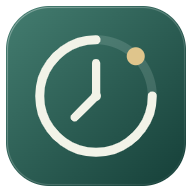
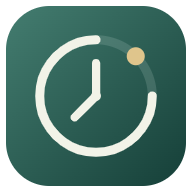
Add independent interface and bubble materials and remove bright outlines

diff --git a/public/app.js b/public/app.js
@@ -206,7 +206,7 @@ function restoreForm() {
 function localModeCard(){return `<section class="card appearance-card"><h2>数据存储模式</h2><p>${localMode()?'本地优先：数据保存在此浏览器，可选择手动同步或开启自动同步。':'服务器模式：当前修改保存在服务器。'}</p><p class="hint">本地空间与服务器分开保存。首次在线打开后可准备离线资源；清除浏览器网站数据会删除本地空间，请定期导出备份。可在下方管理手动与自动同步；默认关闭自动同步。</p><button class="quiet" data-action="local-mode">${localMode()?'本地模式说明':'进入本地模式'}</button> <button class="quiet" data-action="offline-ready">准备 / 更新离线资源</button>${localMode()?'<button class="text-btn" data-action="server-mode">返回服务器模式（不上传）</button>':''}</section>`;}
 function localModeForm(){openModal('本地空间',`<p class="hint">已有本地空间会直接打开，不会被覆盖。首次使用可创建空白空间，或复制当前已加载的服务器数据。API 密钥与账号不会复制。本地数据只属于此浏览器和当前网址。</p><button class="primary" id="local-empty">打开 / 创建本地空间</button>${state&&!localMode()?'<button class="quiet" id="local-copy">首次创建时复制当前数据</button>':''}`,()=>{const enter=async seed=>{try{await initializeLocal(seed);localStorage.setItem('shixu-data-mode','local');dataMode='local';await navigator.storage?.persist?.();closeModal();await load();toast('已进入本地模式；同步方式可在设置中管理');}catch(e){toast(e.message);}};$('#local-empty').onclick=()=>enter();if($('#local-copy'))$('#local-copy').onclick=()=>enter(state);});}
 async function prepareOffline(){if(!('serviceWorker' in navigator))throw Error('此浏览器不支持离线资源');const registration=await navigator.serviceWorker.register('/sw.js');await registration.update();await navigator.serviceWorker.ready;const channel=new MessageChannel();await new Promise((resolve,reject)=>{const timer=setTimeout(()=>reject(Error('离线资源准备超时，请联网后重试')),30000);channel.port1.onmessage=e=>{clearTimeout(timer);channel.port1.close();e.data.ok?resolve():reject(Error('资源下载失败，请联网后重试'));};(registration.active||registration.waiting).postMessage({type:'prepare-offline'},[channel.port2]);});toast('离线资源已准备，可断网后重新打开验证');}
-function appearanceCard(){const a=window.shixuAppearance.get();return `<section class="card appearance-card"><h2>外观与主题</h2><p class="hint">立即预览，自动保存在本设备。不会影响其他设备的阅读习惯。</p><form id="appearance-form" class="form-grid"><label>主主题色<input type="color" name="color" value="${a.color}"></label><label>辅主题色<input type="color" name="secondary" value="${a.secondary}"></label><div class="full color-presets"><span>撞色搭配</span><button type="button" data-theme-pair="#2b5747,#c58b5b">松绿 · 琥珀</button><button type="button" data-theme-pair="#405bc4,#e59078">靛蓝 · 杏橘</button><button type="button" data-theme-pair="#7b5397,#73a893">紫藤 · 鼠尾草</button></div><label>日期卡片背景<input type="color" name="dateBackground" value="${a.dateBackground}"></label><label>日期卡片文字<input type="color" name="dateText" value="${a.dateText}"></label><label><input type="checkbox" name="dateCustom" ${a.dateCustom?'checked':''}> 使用自定义日期颜色</label><label>显示模式<select name="mode">${[['system','跟随系统'],['light','浅色'],['dark','夜间']].map(([v,l])=>opt(v,l,a.mode)).join('')}</select></label><label>字体大小<select name="size">${[85,100,115,130].map(n=>opt(String(n),n+'%',String(a.size))).join('')}</select></label><label>字体样式<select name="font">${[['sans','现代黑体'],['serif','经典宋体'],['mono','等宽字体']].map(([v,l])=>opt(v,l,a.font)).join('')}</select></label><label><input name="motion" type="checkbox" ${a.motion?'checked':''}> 启用轻量动画</label><button type="button" class="text-btn" id="appearance-reset">恢复默认外观</button></form><p class="appearance-preview">今天的一小步，也值得认真记录。<small>课程 · 项目 · 灵感 · 复盘</small></p></section>`;}
+function appearanceCard(){const a=window.shixuAppearance.get();return `<section class="card appearance-card"><h2>外观与主题</h2><p class="hint">立即预览，自动保存在本设备。不会影响其他设备的阅读习惯。</p><form id="appearance-form" class="form-grid"><label>主主题色<input type="color" name="color" value="${a.color}"></label><label>辅主题色<input type="color" name="secondary" value="${a.secondary}"></label><div class="full color-presets"><span>撞色搭配</span><button type="button" data-theme-pair="#2b5747,#c58b5b">松绿 · 琥珀</button><button type="button" data-theme-pair="#405bc4,#e59078">靛蓝 · 杏橘</button><button type="button" data-theme-pair="#7b5397,#73a893">紫藤 · 鼠尾草</button></div><label>日期卡片背景<input type="color" name="dateBackground" value="${a.dateBackground}"></label><label>日期卡片文字<input type="color" name="dateText" value="${a.dateText}"></label><label><input type="checkbox" name="dateCustom" ${a.dateCustom?'checked':''}> 使用自定义日期颜色</label><label>界面材质<select name="material">${[['solid','纯色'],['frosted','磨砂'],['glass','玻璃'],['acrylic','亚克力'],['mica','云母'],['paper','纸感']].map(([v,l])=>opt(v,l,a.material)).join('')}</select></label><label>显示模式<select name="mode">${[['system','跟随系统'],['light','浅色'],['dark','夜间']].map(([v,l])=>opt(v,l,a.mode)).join('')}</select></label><label>字体大小<select name="size">${[85,100,115,130].map(n=>opt(String(n),n+'%',String(a.size))).join('')}</select></label><label>字体样式<select name="font">${[['sans','现代黑体'],['serif','经典宋体'],['mono','等宽字体']].map(([v,l])=>opt(v,l,a.font)).join('')}</select></label><label><input name="motion" type="checkbox" ${a.motion?'checked':''}> 启用轻量动画</label><button type="button" class="text-btn" id="appearance-reset">恢复默认外观</button></form><p class="appearance-preview">今天的一小步，也值得认真记录。<small>课程 · 项目 · 灵感 · 复盘</small></p></section>`;}
 function setupAppearance(){const form=$('#appearance-form');const update=e=>{if(['dateBackground','dateText'].includes(e?.target?.name))form.elements.dateCustom.checked=true;const f=new FormData(form);window.shixuAppearance.set({...Object.fromEntries(f),motion:f.has('motion'),dateCustom:f.has('dateCustom')});};form.querySelectorAll('[data-theme-pair]').forEach(button=>button.onclick=()=>{const [color,secondary]=button.dataset.themePair.split(',');window.shixuAppearance.set({...window.shixuAppearance.get(),color,secondary});render();});form.oninput=update;form.onchange=update;form.onsubmit=e=>e.preventDefault();$('#appearance-reset').onclick=()=>{window.shixuAppearance.reset();render();};}
 function setupSettings() {
   setupAppearance();

diff --git a/public/materials.css b/public/materials.css
@@ -1,0 +1,19 @@
+/* Web-rendered surface styles; these do not sample the Windows desktop. */
+.brand-icon{border:0!important;outline:0!important}
+.brand:focus:not(:focus-visible){outline:none}
+.topbar{border-bottom-color:color-mix(in srgb,var(--ink) 7%,transparent)!important}
+:root{--material-fill:var(--surface);--material-texture:none;--material-blur:0px}
+:root[data-material=frosted]{--material-fill:color-mix(in srgb,var(--surface) 91%,transparent);--material-blur:12px;--material-texture:linear-gradient(145deg,color-mix(in srgb,var(--accent) 4%,transparent),transparent)}
+:root[data-material=glass]{--material-fill:color-mix(in srgb,var(--surface) 60%,transparent);--material-blur:18px;--material-texture:linear-gradient(135deg,color-mix(in srgb,var(--ink) 3%,transparent),transparent 55%)}
+:root[data-material=acrylic]{--material-fill:color-mix(in srgb,var(--surface) 78%,transparent);--material-blur:28px;--material-texture:repeating-linear-gradient(125deg,transparent 0 2px,color-mix(in srgb,var(--ink) 1.5%,transparent) 2px 3px)}
+:root[data-material=mica]{--material-fill:var(--surface);--material-texture:radial-gradient(ellipse at 0 0,color-mix(in srgb,var(--accent) 15%,transparent),transparent 75%),radial-gradient(ellipse at 100% 100%,color-mix(in srgb,var(--accent-secondary) 9%,transparent),transparent 70%)}
+:root[data-material=paper]{--material-fill:color-mix(in srgb,var(--surface) 97%,var(--accent-secondary));--material-texture:repeating-linear-gradient(0deg,transparent 0 3px,color-mix(in srgb,var(--ink) 2%,transparent) 3px 4px)}
+:root[data-material]:not([data-material=solid]) body{background-image:radial-gradient(ellipse at 18% 5%,color-mix(in srgb,var(--accent) 12%,transparent),transparent 58%),radial-gradient(ellipse at 90% 85%,color-mix(in srgb,var(--accent-secondary) 9%,transparent),transparent 55%);background-attachment:fixed}
+:root[data-material]:not([data-material=solid]) :is(.card,.stat,.task-list,.idea-card,.quadrant-card,.hero,.sidebar,.topbar,dialog){background-color:var(--material-fill)!important;background-image:var(--material-texture)!important;backdrop-filter:blur(var(--material-blur)) saturate(1.15)!important;border-color:color-mix(in srgb,var(--ink) 9%,transparent)!important;box-shadow:0 8px 28px #00000008}
+:root[data-material]:not([data-material=solid]) .task-item{background:transparent!important}
+:is(#idea-bubbles,.bubble-preview)[data-material=frosted] :is(.bubble-face,.bubble-sample){backdrop-filter:blur(calc(var(--bubble-alpha)*12px));background-image:linear-gradient(135deg,var(--bubble-material-light),transparent)}
+:is(#idea-bubbles,.bubble-preview)[data-material=glass] :is(.bubble-face,.bubble-sample){backdrop-filter:blur(calc(var(--bubble-alpha)*20px)) saturate(1.25);background-image:linear-gradient(140deg,var(--bubble-material-light),transparent 48%,var(--bubble-material-light))}
+:is(#idea-bubbles,.bubble-preview)[data-material=acrylic] :is(.bubble-face,.bubble-sample){backdrop-filter:blur(calc(var(--bubble-alpha)*32px)) saturate(1.4);background-image:repeating-linear-gradient(125deg,transparent 0 2px,var(--bubble-material-light) 2px 3px)}
+:is(#idea-bubbles,.bubble-preview)[data-material=mica] :is(.bubble-face,.bubble-sample){background-image:radial-gradient(ellipse at 5% 0,var(--bubble-material-light),transparent 70%),linear-gradient(125deg,transparent,var(--bubble-material-tint))}
+:is(#idea-bubbles,.bubble-preview)[data-material=paper] :is(.bubble-face,.bubble-sample){background-image:repeating-linear-gradient(0deg,transparent 0 3px,var(--bubble-material-light) 3px 4px)}
+@supports not (backdrop-filter:blur(1px)){:root[data-material]:not([data-material=solid]) :is(.card,.stat,.task-list,.idea-card,.quadrant-card,.hero,.sidebar,.topbar,dialog){background-color:var(--surface)!important}}

diff --git a/public/appearance.js b/public/appearance.js
@@ -1,12 +1,12 @@
 (()=>{
- const defaults={color:'#2b5747',secondary:'#c58b5b',mode:'system',size:100,font:'sans',motion:true,dateCustom:false,dateBackground:'#ffffff',dateText:'#24382f'};
+ const defaults={color:'#2b5747',secondary:'#c58b5b',mode:'system',size:100,font:'sans',motion:true,material:'solid',dateCustom:false,dateBackground:'#ffffff',dateText:'#24382f'};
  const fonts={sans:'"Segoe UI","Microsoft YaHei",sans-serif',serif:'"Noto Serif SC","Songti SC",SimSun,serif',mono:'Consolas,"Microsoft YaHei",monospace'};
  let value;try{value=JSON.parse(localStorage.getItem('shixu-appearance')||'{}');}catch{value={};}
  const hex=v=>/^#[0-9a-f]{6}$/i.test(v);
- const clean=v=>({color:hex(v?.color)?v.color:defaults.color,secondary:hex(v?.secondary)?v.secondary:defaults.secondary,mode:['light','dark','system'].includes(v?.mode)?v.mode:'system',size:[85,100,115,130].includes(Number(v?.size))?Number(v.size):100,font:fonts[v?.font]?v.font:'sans',motion:v?.motion!==false,dateCustom:v?.dateCustom===true,dateBackground:hex(v?.dateBackground)?v.dateBackground:defaults.dateBackground,dateText:hex(v?.dateText)?v.dateText:defaults.dateText});
+ const clean=v=>({color:hex(v?.color)?v.color:defaults.color,secondary:hex(v?.secondary)?v.secondary:defaults.secondary,mode:['light','dark','system'].includes(v?.mode)?v.mode:'system',size:[85,100,115,130].includes(Number(v?.size))?Number(v.size):100,font:fonts[v?.font]?v.font:'sans',motion:v?.motion!==false,material:['solid','frosted','glass','acrylic','mica','paper'].includes(v?.material)?v.material:'solid',dateCustom:v?.dateCustom===true,dateBackground:hex(v?.dateBackground)?v.dateBackground:defaults.dateBackground,dateText:hex(v?.dateText)?v.dateText:defaults.dateText});
  let settings=clean(value);const media=matchMedia('(prefers-color-scheme: dark)');
  function apply(){const root=document.documentElement;const dark=settings.mode==='dark'||settings.mode==='system'&&media.matches;root.dataset.theme=dark?'dark':'light';root.dataset.motion=settings.motion?'on':'off';root.style.setProperty('--accent',settings.color);root.style.setProperty('--user-font',fonts[settings.font]);root.style.fontSize=16*settings.size/100+'px';root.style.colorScheme=dark?'dark':'light';const rgb=settings.color.slice(1).match(/../g).map(x=>parseInt(x,16)/255).map(x=>x<=.04045?x/12.92:((x+.055)/1.055)**2.4);root.style.setProperty('--accent-ink',rgb[0]*.2126+rgb[1]*.7152+rgb[2]*.0722>.179?'#101814':'#ffffff');}
- const originalApply=apply;apply=()=>{originalApply();document.documentElement.style.setProperty('--accent-secondary',settings.secondary);for(const [key,variable] of [['dateBackground','--date-background'],['dateText','--date-text']]){if(settings.dateCustom)document.documentElement.style.setProperty(variable,settings[key]);else document.documentElement.style.removeProperty(variable);}};
+ const originalApply=apply;apply=()=>{originalApply();document.documentElement.dataset.material=settings.material;document.documentElement.style.setProperty('--accent-secondary',settings.secondary);for(const [key,variable] of [['dateBackground','--date-background'],['dateText','--date-text']]){if(settings.dateCustom)document.documentElement.style.setProperty(variable,settings[key]);else document.documentElement.style.removeProperty(variable);}};
  window.shixuAppearance={get:()=>({...settings}),set:v=>{settings=clean(v);localStorage.setItem('shixu-appearance',JSON.stringify(settings));apply();},reset:()=>{settings={...defaults};localStorage.removeItem('shixu-appearance');apply();}};
  media.addEventListener('change',apply);window.addEventListener('storage',e=>{if(e.key==='shixu-appearance'){try{settings=clean(JSON.parse(e.newValue||'{}'));apply();}catch{}}});apply();
 })();

diff --git a/public/index.html b/public/index.html
@@ -1,5 +1,5 @@
 <!doctype html>
-<html lang="zh-CN"><head><meta charset="utf-8"><meta name="viewport" content="width=device-width,initial-scale=1,viewport-fit=cover"><meta name="theme-color" content="#264e42"><meta name="description" content="时序，为课程、项目和灵感留出时间。"><title>时序 · 给重要的事留时间</title><link rel="manifest" href="/manifest.webmanifest"><link rel="icon" href="/icon.svg" type="image/svg+xml"><link rel="stylesheet" href="/style.css"><link rel="stylesheet" href="/appearance.css"><script src="/appearance.js"></script><link rel="stylesheet" href="/workspace.css"><link rel="stylesheet" href="/idea-bubbles.css"></head>
+<html lang="zh-CN"><head><meta charset="utf-8"><meta name="viewport" content="width=device-width,initial-scale=1,viewport-fit=cover"><meta name="theme-color" content="#264e42"><meta name="description" content="时序，为课程、项目和灵感留出时间。"><title>时序 · 给重要的事留时间</title><link rel="manifest" href="/manifest.webmanifest"><link rel="icon" href="/icon.svg" type="image/svg+xml"><link rel="stylesheet" href="/style.css"><link rel="stylesheet" href="/appearance.css"><script src="/appearance.js"></script><link rel="stylesheet" href="/workspace.css"><link rel="stylesheet" href="/idea-bubbles.css"><link rel="stylesheet" href="/materials.css"></head>
 <body>
 <div id="login" class="login-page" hidden><div class="login-art"><span class="eyebrow">A LITTLE SPACE, EVERY DAY</span><h1>让每一天，<br>有自己的<span>节奏。</span></h1><p>课程有位置，项目有进展，<br>突然冒出的好想法，也有地方安放。</p><div class="orbit"><i></i><i></i><i></i><b>时序</b></div><div class="login-foot">YOUR TIME, THOUGHTFULLY ARRANGED.</div></div><form id="login-form" class="login-box"><div class="brand"><span class="brand-icon">序</span> 时序 <small>STUDENT PLANNER</small></div><h2>欢迎回来</h2><p class="muted">从今天的一小步开始。</p><label>用户名<input name="username" value="student" autocomplete="username" required></label><label>密码<input name="password" type="password" autocomplete="current-password" required></label><button class="primary" type="submit">进入我的空间 <span>↗</span></button><button type="button" id="login-switch-server" class="text-btn" style="margin-top:16px">切换到自己的服务器 ↗</button><button type="button" id="login-local" class="quiet">无需登录，使用本地空间</button><p id="login-error" class="error"></p><p class="hint">首次使用：初始密码保存在服务端 data/bootstrap.txt 文件中。</p></form></div>
 <div id="shell" hidden>

diff --git a/public/sw.js b/public/sw.js
@@ -1,5 +1,5 @@
-const CACHE='shixu-shell-local-v13';
-const ASSETS=['/color-inputs.mjs','/auto-sync.mjs','/sync-ui.mjs','/sync-client.mjs','/sync-merge.mjs','/','/index.html','/app.js','/customize.mjs','/idea-bubbles.mjs','/idea-bubbles.css','/calendar.mjs','/workspace.css','/style.css','/tweaks.css','/appearance.css','/appearance.js','/portability.mjs','/quadrants.mjs','/reviews.mjs','/task-types.mjs','/local-store.mjs','/validate-state.mjs','/manifest.webmanifest','/icon.svg','/icon-192.png','/icon-512.png'];
+const CACHE='shixu-shell-local-v14';
+const ASSETS=['/materials.css','/color-inputs.mjs','/auto-sync.mjs','/sync-ui.mjs','/sync-client.mjs','/sync-merge.mjs','/','/index.html','/app.js','/customize.mjs','/idea-bubbles.mjs','/idea-bubbles.css','/calendar.mjs','/workspace.css','/style.css','/tweaks.css','/appearance.css','/appearance.js','/portability.mjs','/quadrants.mjs','/reviews.mjs','/task-types.mjs','/local-store.mjs','/validate-state.mjs','/manifest.webmanifest','/icon.svg','/icon-192.png','/icon-512.png'];
 async function prepare(){const cache=await caches.open(CACHE);await cache.addAll(ASSETS.map(url=>new Request(url,{cache:'reload'})));}
 self.addEventListener('install',event=>event.waitUntil(prepare().then(()=>self.skipWaiting())));
 self.addEventListener('message',event=>{if(event.data?.type==='prepare-offline')event.waitUntil(prepare().then(()=>event.ports[0]?.postMessage({ok:true}),()=>event.ports[0]?.postMessage({ok:false})));});

diff --git a/docs/WINDOWS_DESKTOP.md b/docs/WINDOWS_DESKTOP.md
@@ -12,6 +12,8 @@
 
 新图标以圆角松绿底、钟环与琥珀圆点组成。矢量源为 `public/app-icon.svg`；`node desktop/render-icon.mjs` 生成 PNG 和 ICO。
 
+0.1.2 去掉品牌图标外框和自定义标题栏分隔线。外观设置与灵感气泡各自支持纯色、磨砂、玻璃、亚克力、云母和纸感六种材质，独立保存在本设备；气泡颜色、透明度与 3D 设置仍然保留。材质由应用内 CSS 渲染，不读取桌面壁纸，不是 Windows 原生系统背景材质；不支持背景模糊时界面回退到清晰的纯色底。
+
 服务端数据与定制代码继续保存在 `%LOCALAPPDATA%\Shixu`，沿用原桌面空间。Electron 的 Cookie 和离线 IndexedDB 属于独立窗口自己的浏览器空间，不会自动读取 Edge 的离线数据；需要在旧入口导出，再在新窗口导入。服务器登录需要重新进行。安装新版本不自动覆盖现有定制 workspace。升级或卸载前，先用菜单停止桌面后台服务并关闭窗口；卸载保留个人数据。
 
 窗口启用沙箱和上下文隔离，网页不能直接使用 Node；HTTPS 服务器切换仍在设置中进行。同步、AI 接口和权限边界沿用原应用。本机测试不等同于干净电脑或阿里云上线验收；当前安装包没有代码签名。
